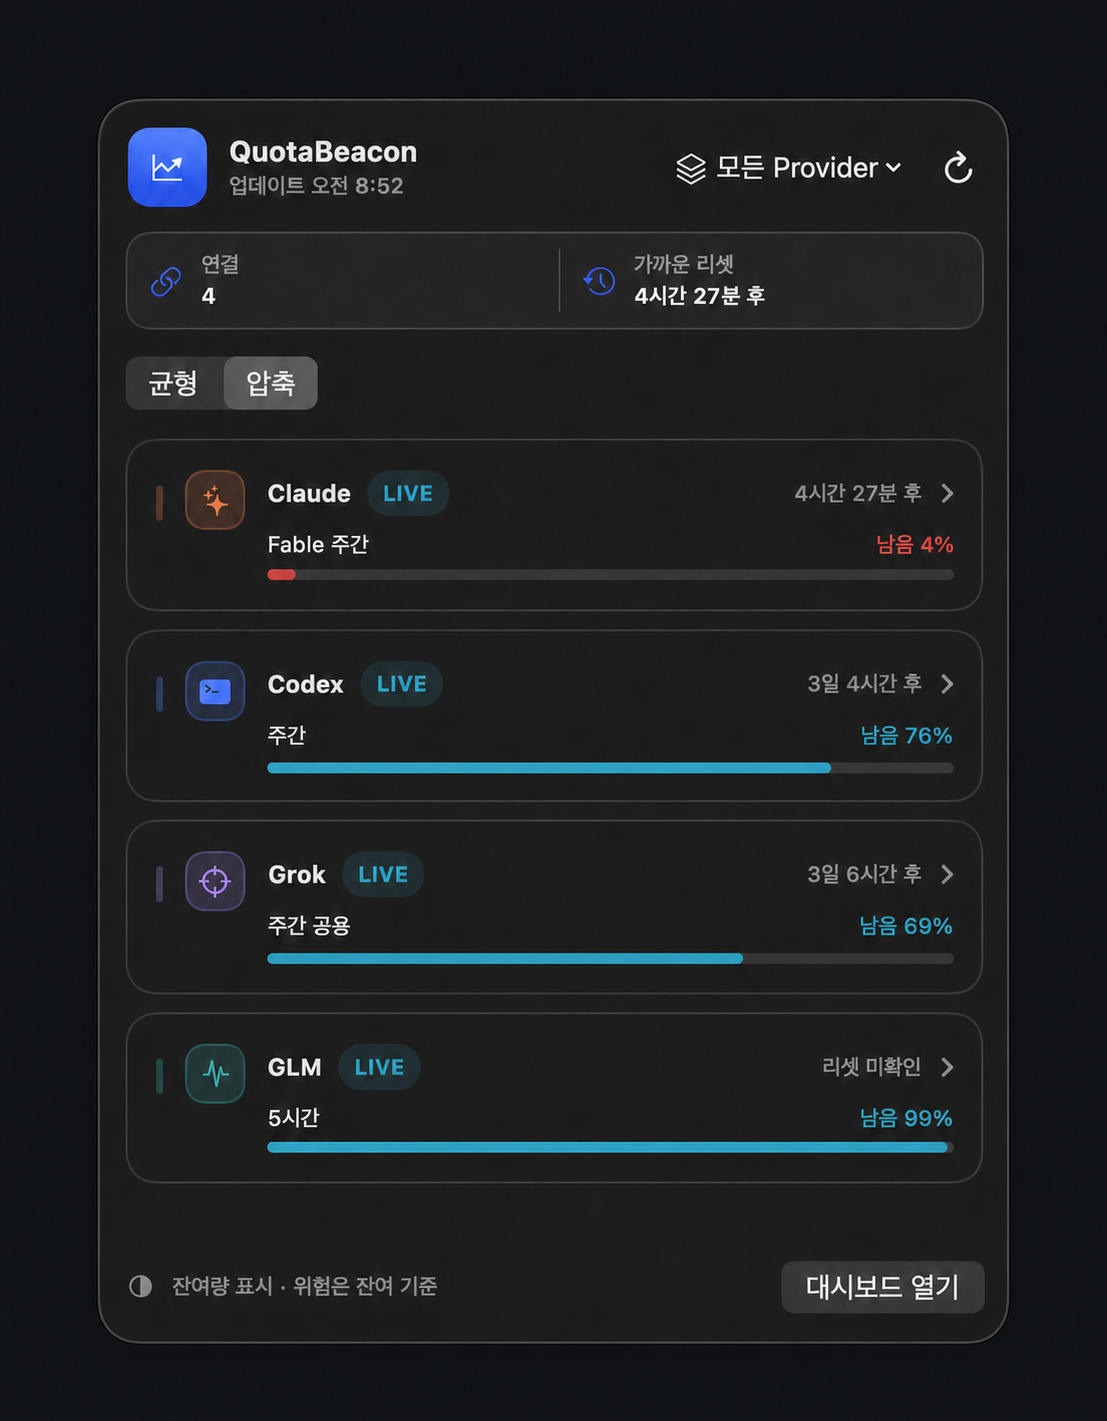
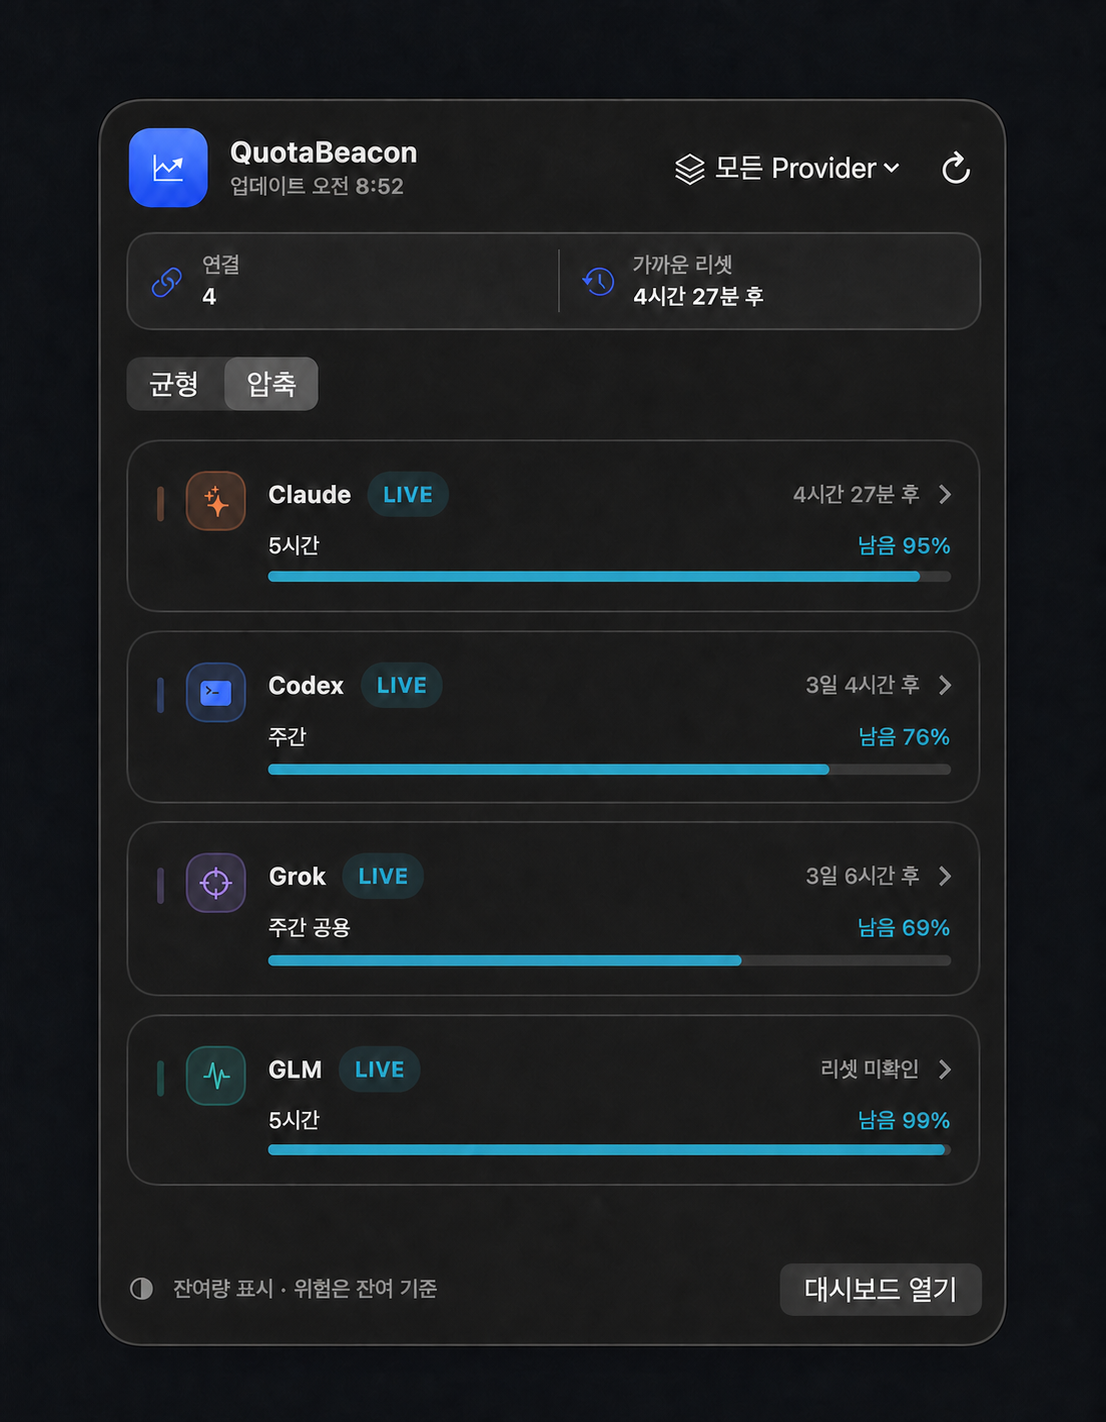
fix: prefer Claude five-hour quota in compact summary

diff --git a/AIQuotaMonitorTests/Features/PresentationTests.swift b/AIQuotaMonitorTests/Features/PresentationTests.swift
@@ -31,6 +31,37 @@ final class PresentationTests: XCTestCase {
         XCTAssertEqual(QuotaPresentation.urgency(forRemaining: 1), .healthy)
     }
 
+    func testClaudeCompactSummaryPrefersFiveHourOverScopedWeeklyWindow() throws {
+        let provenance = ValueProvenance(
+            source: .syntheticFixture,
+            contract: .observed,
+            observedAt: Date(timeIntervalSince1970: 0),
+            freshness: .live
+        )
+        let fiveHour = QuotaWindow(
+            kind: .fiveHour,
+            usedRatio: try QuotaRatio(0.05),
+            resetsAt: nil,
+            provenance: provenance
+        )
+        let fable = QuotaWindow(
+            kind: .custom("Fable 주간"),
+            usedRatio: try QuotaRatio(0.96),
+            resetsAt: nil,
+            provenance: provenance
+        )
+        let snapshot = ProviderSnapshot(
+            provider: .claude,
+            state: .available,
+            windows: [fiveHour, fable],
+            credits: nil,
+            lastAttempt: nil,
+            lastSuccessAt: nil
+        )
+
+        XCTAssertEqual(QuotaPresentation.summaryWindow(for: snapshot)?.kind, .fiveHour)
+    }
+
     func testResetPresentationHandlesRelativeUnknownAndPastDates() {
         let now = Date(timeIntervalSince1970: 1_000_000)
         XCTAssertEqual(

diff --git a/AIQuotaMonitor/Features/MenuBar/MenuBarPlaceholderView.swift b/AIQuotaMonitor/Features/MenuBar/MenuBarPlaceholderView.swift
@@ -369,7 +369,7 @@ private struct ProviderLedgerRow: View {
                 .font(.caption)
                 .foregroundStyle(palette.secondaryText)
                 .frame(maxWidth: .infinity, alignment: .leading)
-        } else if density == .compact, let window = mostUrgentWindow {
+        } else if density == .compact, let window = QuotaPresentation.summaryWindow(for: snapshot) {
             BeaconQuotaBar(
                 window: window,
                 metricMode: metricMode,
@@ -436,10 +436,6 @@ private struct ProviderLedgerRow: View {
     private var resetSummary: String {
         let reset = snapshot.windows.compactMap(\.resetsAt).filter { $0 > Date() }.min()
         return QuotaPresentation.resetText(for: reset, style: resetStyle)
-    }
-
-    private var mostUrgentWindow: QuotaWindow? {
-        snapshot.windows.min { $0.remainingRatio < $1.remainingRatio }
     }
 
     private var emptyMessage: String {

diff --git a/AIQuotaMonitor/DesignSystem/QuotaPresentation.swift b/AIQuotaMonitor/DesignSystem/QuotaPresentation.swift
@@ -121,6 +121,14 @@ enum QuotaUrgency: Equatable {
 }
 
 enum QuotaPresentation {
+    static func summaryWindow(for snapshot: ProviderSnapshot) -> QuotaWindow? {
+        if snapshot.provider == .claude,
+           let fiveHour = snapshot.windows.first(where: { $0.kind == .fiveHour }) {
+            return fiveHour
+        }
+        return snapshot.windows.min { $0.remainingRatio < $1.remainingRatio }
+    }
+
     static func ratio(for window: QuotaWindow, mode: QuotaMetricMode) -> Double {
         switch mode {
         case .remaining: window.remainingRatio
